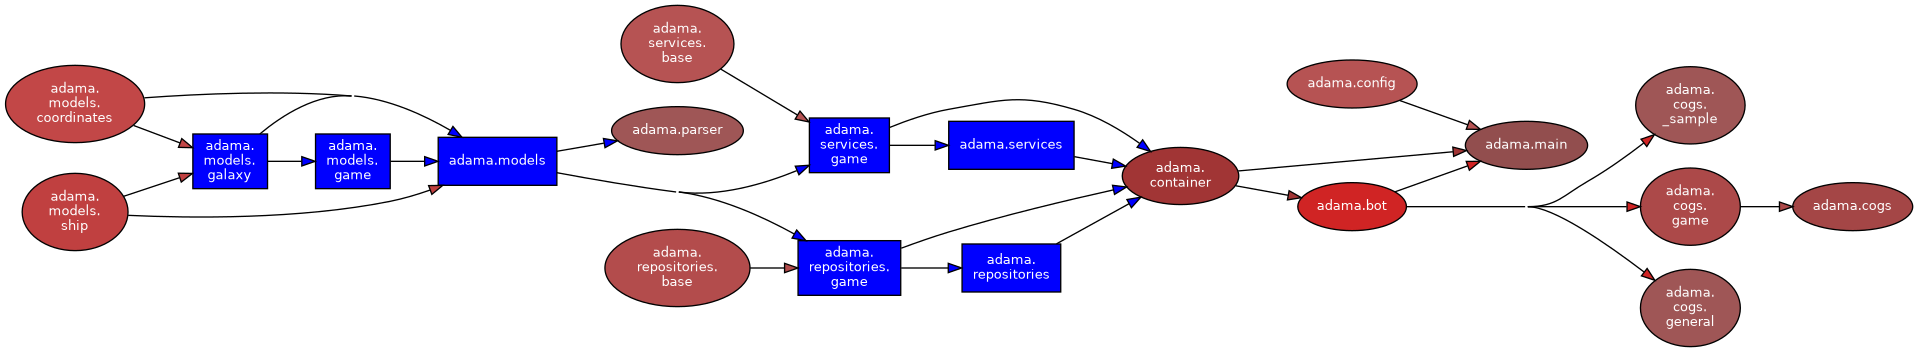
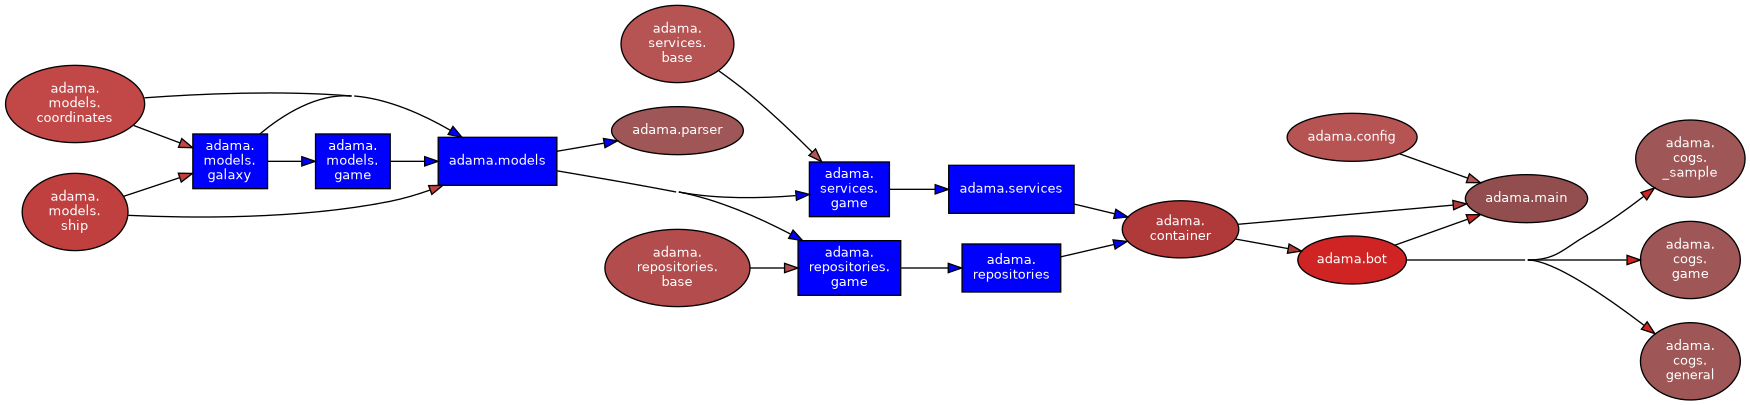
better deps graph

diff --git a/src/adama/container.py b/src/adama/container.py
@@ -1,7 +1,7 @@
 from dataclasses import dataclass, field
 
-from adama.repositories.game import GameRepository
-from adama.services.game import GameService
+from adama.repositories import GameRepository
+from adama.services import GameService
 
 @dataclass
 class Repositories():
